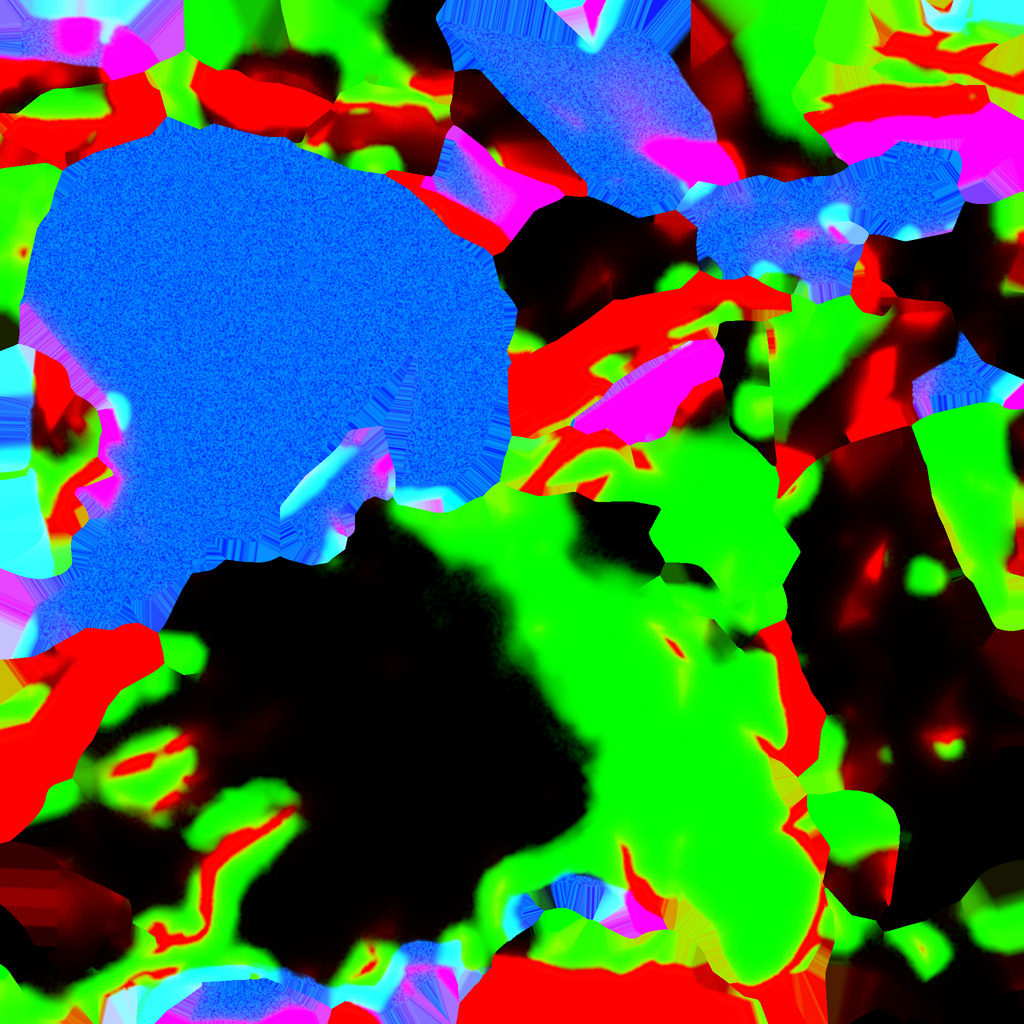
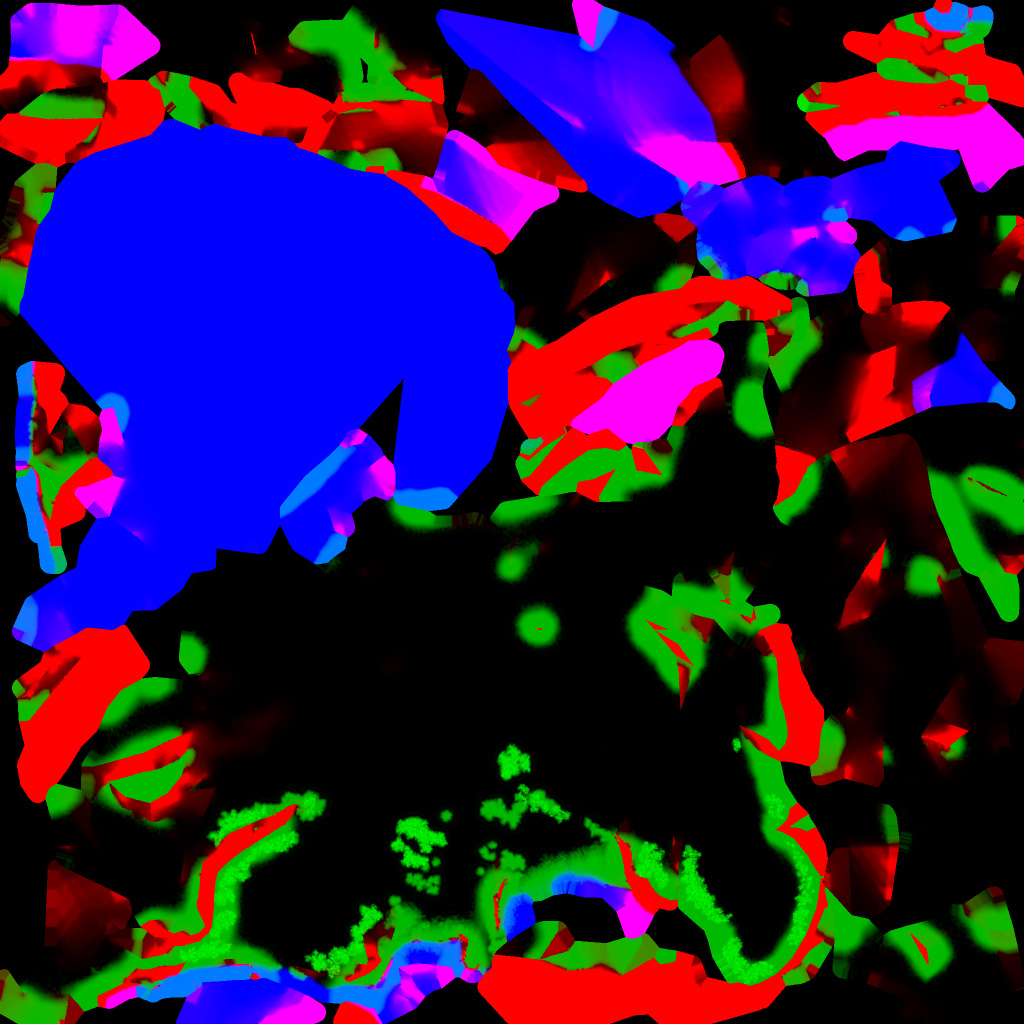
Updates to FieldEnv.
Some texture clean up, shader tweaks, and added grass / moss mix

diff --git a/src/pxlRooms/FieldEnvironment/Shaders.js b/src/pxlRooms/FieldEnvironment/Shaders.js
@@ -70,6 +70,7 @@ export function envGroundFrag( pointLightCount ){
   uniform sampler2D dirtDiffuse;
   uniform sampler2D crackedDirtDiffuse;
   uniform sampler2D hillDiffuse;
+  uniform sampler2D grassDiffuse;
   uniform sampler2D mossDiffuse;
   uniform sampler2D dataTexture;
   
@@ -166,8 +167,9 @@ export function envGroundFrag( pointLightCount ){
         vec2 subUv = ( pos.xz*.9 );
         
         // Read world-uv'ed textures
-        vec3 crackDirtCd = texture2D(crackedDirtDiffuse,subUv).rgb ;
-        vec3 mossCd = texture2D(mossDiffuse,( pos.xz*1.5 * nCd.rg )).rgb ;
+        vec3 crackDirtCd = texture2D( crackedDirtDiffuse, subUv ).rgb ;
+        vec3 mossCd = texture2D( mossDiffuse,( pos.xz*1.5 + (nCd.rg*.1) )).rgb ;
+        vec3 grassCd = texture2D( grassDiffuse, pos.xz*2.0 ).rgb ;
         
         // Shift the rocky hill texture so it reads it more horizontally
         vec2 hillLayerUv =  vec2( subUv.x+subUv.y*.35,  vLocalPos.y*.01 ) ;
@@ -203,8 +205,8 @@ export function envGroundFrag( pointLightCount ){
         // -- Texture Color Mixing -- --
         // -- -- -- -- -- -- -- -- -- -- --
         
-        float mossMix = clamp( dataCd.g - dataCd.r, 0.0, 1.0);
-        float rockyMix = clamp( dataCd.r - mossMix, 0.0, 1.0);
+        float mossMix = dataCd.g;
+        float rockyMix = dataCd.r;
         
         // Mix base Dirt color --
         float baseCdMix = clamp( dot( normalize(baseCd.rgb), normalize(vCd.rgb) ) * vCd.r * vCd.g * vCd.b * 10.0, 0.0, 1.0 );
@@ -214,8 +216,10 @@ export function envGroundFrag( pointLightCount ){
         // Add rocky hill sides, reduce region around campfire, remove pit itself
         Cd.rgb = mix( Cd.rgb, rockyHillCd, rockyMix);
         
-        // Add moss
-        Cd.rgb = mix( Cd.rgb, mossCd, mossMix);
+        // Mix'n'add Moss & Grass colors
+        float mossGrassMix = clamp( (mossMix-.5)*2.0, 0.0, 1.0 );
+        vec3 mossGrassCd = mix( mossCd, grassCd, mossGrassMix );
+        Cd.rgb = mix( Cd.rgb, mossGrassCd, mossMix);
         
         
         // Mix in under water colors
@@ -540,7 +544,7 @@ export function grassClusterFrag( buildAlpha=false ){
         // -- -- -- -- -- -- -- -- -- -- --
 
         float fogMix =  clamp( depth - lightMag*(1.0-depth*1.5), 0.0, 1.0 );
-        Cd.rgb=  mix( Cd.rgb * (vCd.y*.5+.5), fogColor, fogMix );
+        Cd.rgb=  mix( Cd.rgb * (vCd.y*.5+.4), fogColor, fogMix );
 
         `;
         if( buildAlpha ){

diff --git a/src/pxlRooms/FieldEnvironment/FieldEnvironment.js b/src/pxlRooms/FieldEnvironment/FieldEnvironment.js
@@ -423,6 +423,7 @@ export class FieldEnvironment extends RoomEnvironment{
                 'dirtDiffuse' : { type:'t', value: null },
                 'crackedDirtDiffuse' : { type:'t', value: null },
                 'hillDiffuse' : { type:'t', value: null },
+                'grassDiffuse' : { type:'t', value: null },
                 'mossDiffuse' : { type:'t', value: null },
                 'dataTexture' : { type:'t', value: null },
                 'mult': { type:'f', value:1 },
@@ -443,6 +444,7 @@ export class FieldEnvironment extends RoomEnvironment{
     envGroundUniforms.dirtDiffuse.value = this.pxlUtils.loadTexture( this.assetPath+"Dirt_Diffuse.jpg", null, {'encoding':SRGBColorSpace} );
     envGroundUniforms.crackedDirtDiffuse.value = this.pxlUtils.loadTexture( this.assetPath+"CrackedDirtGround_diffuse.jpg", null, {'encoding':SRGBColorSpace} );
     envGroundUniforms.hillDiffuse.value = this.pxlUtils.loadTexture( this.assetPath+"RockLayerDirtHill_diffuse.jpg", null, {'encoding':SRGBColorSpace} );
+    envGroundUniforms.grassDiffuse.value = this.pxlUtils.loadTexture( this.assetPath+"GrassA_diffuse.jpg", null, {'encoding':SRGBColorSpace} );
     envGroundUniforms.mossDiffuse.value = this.pxlUtils.loadTexture( this.assetPath+"MossyGround_diffuse.jpg", null, {'encoding':SRGBColorSpace} );
     envGroundUniforms.dataTexture.value = this.pxlUtils.loadTexture( this.assetPath+"EnvGround_Data.jpg" );
 
@@ -465,6 +467,9 @@ export class FieldEnvironment extends RoomEnvironment{
 
     envGroundUniforms.hillDiffuse.value.wrapS = RepeatWrapping;
     envGroundUniforms.hillDiffuse.value.wrapT = RepeatWrapping;
+
+    envGroundUniforms.grassDiffuse.value.wrapS = RepeatWrapping;
+    envGroundUniforms.grassDiffuse.value.wrapT = RepeatWrapping;
 
     envGroundUniforms.mossDiffuse.value.wrapS = RepeatWrapping;
     envGroundUniforms.mossDiffuse.value.wrapT = RepeatWrapping;
